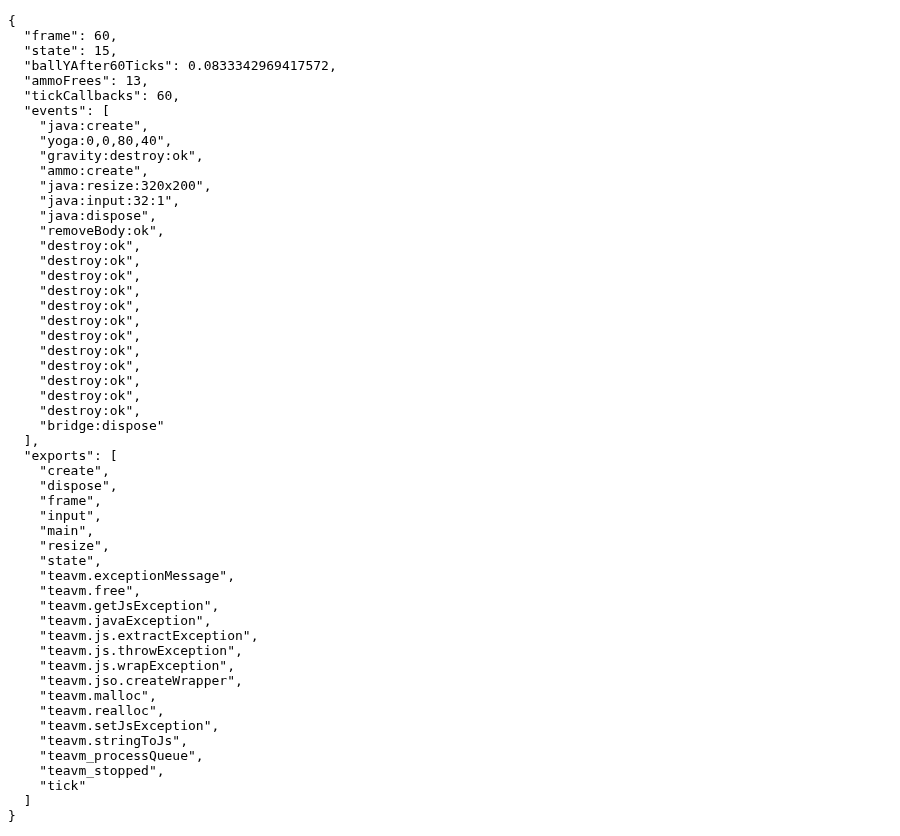
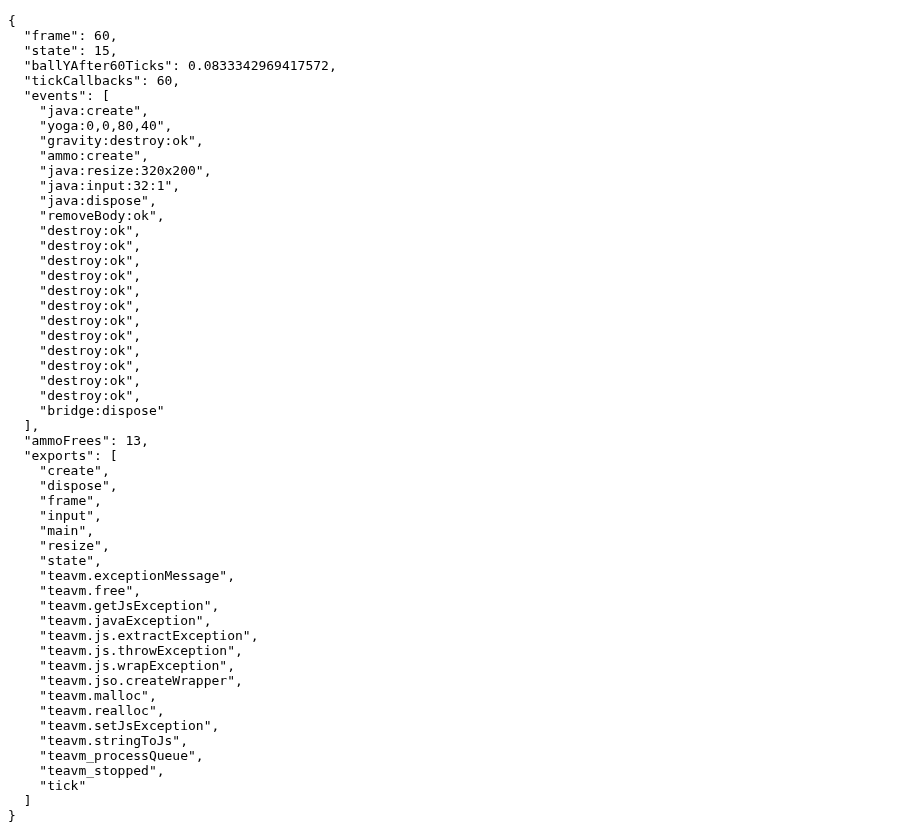
docs: record review checklist specification and verified Wasm evidence

Changed region(s): [[0.0311, 0.0933, 0.2178, 0.2799], [0.0311, 0.4665, 0.1556, 0.5287]]

diff --git a/docs/Spec/2026-10-17-runtime-wasm-quality.md b/docs/Spec/2026-10-17-runtime-wasm-quality.md
@@ -40,7 +40,7 @@ Twórca gry lub agent AI powinien uruchamiać grę i lokalne testy autorytatywne
 - [x] Rzeczywista scena Wasm: postęp Game, realne GDX keydown/keyup, resize, brak zaobserwowanego GL/JS error i brak dalszego rysowania sceny po dispose.
 - [x] Kontrola pikseli wyklucza DOM i sprawdza konkretne kolory sceny. Wyłączenie draw calls musi dać FAIL, nie PASS dzięki etykiecie.
 - [x] Most Yoga/Ammo: opóźniony load + dispose, recreate podczas pending, częściowa awaria i wielokrotne dispose; sprawdzić rzeczywiste obiekty Wasm.
-- [ ] Dowody przypisane do sourceCommit i hashów; zmiana kodu wymaga aktualnego proofu. Historyczne wyniki nie są przepisywane na nową wersję bez uruchomienia.
+- [x] Dowody przypisane do sourceCommit i hashów; zmiana kodu wymaga aktualnego proofu. Historyczne wyniki nie są przepisywane na nową wersję bez uruchomienia.
 
 Wyniki zamknięcia bieżącego przeglądu będą zapisane przy [checkliście Bugs](../Bugs/2026-10-17-wasm-integration-review.md) i w odpowiednich artefaktach, nie wywnioskowane z samych checkboxów.
 

diff --git a/docs/Bugs/2026-10-17-wasm-integration-review.md b/docs/Bugs/2026-10-17-wasm-integration-review.md
@@ -60,3 +60,11 @@ W statycznym przeglądzie opcjonalnego ECS i kodu lokalnego Colyseus/Java nie po
 ## Granica dowodów lifecycle
 
 Siedem scenariuszy przeglądarkowych sprawdza tożsamość i własność wrapperów rzeczywistych obiektów Yoga/Ammo. Nie jest to pomiar odzyskania liniowej pamięci Wasm. Drugi agent niezależnie przejrzał końcowy kod obu eksperymentów; nie potwierdził dodatkowego błędu w tym zakresie.
+
+## Końcowe bramki
+
+- [x] Domyślny build i ECS usage smoke: PASS, 113 zadań (6 wykonanych, 107 up-to-date), 871 przypadków w 99 zestawach XML, bez błędów. To inventory obejmujące cache, nie 871 świeżych wykonań.
+- [x] Osobny build Wasm oraz 4 testy cleanupu: PASS.
+- [x] Oba happy-path proofy Chromium oraz siedem regresji bridge: PASS.
+- [x] Kontrola negatywna renderera: oczekiwany FAIL, 3 kolory, zapis `success: false`.
+- [x] Hashe źródeł i artefakty w `experiments/javity-wasm/evidence/verification.json` oraz `experiments/teavm-wasm/evidence/quality-verification.json`.
